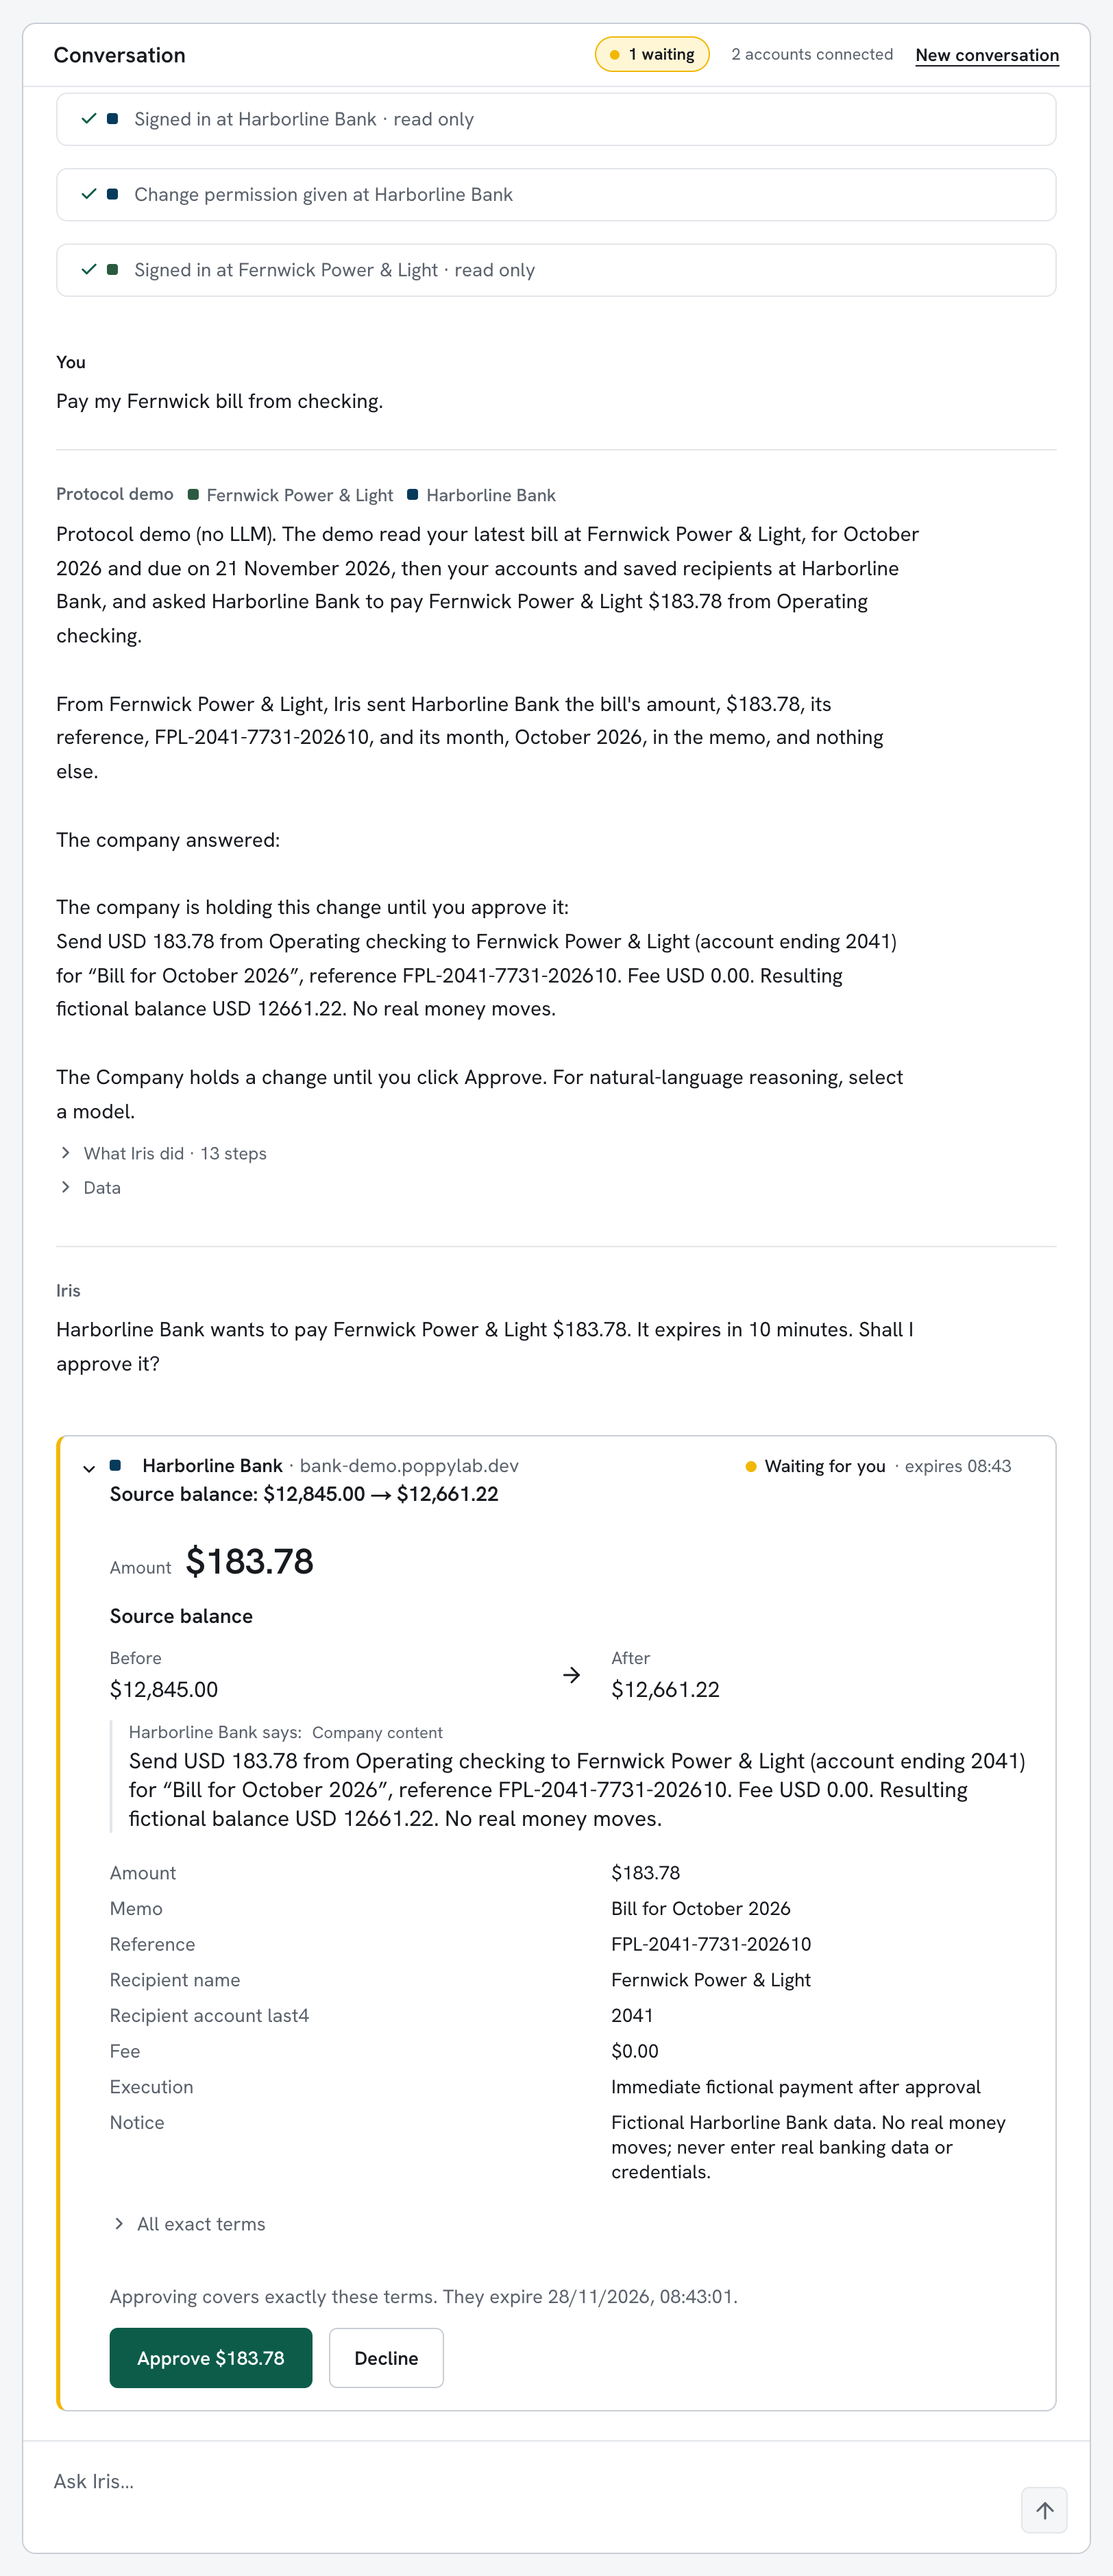
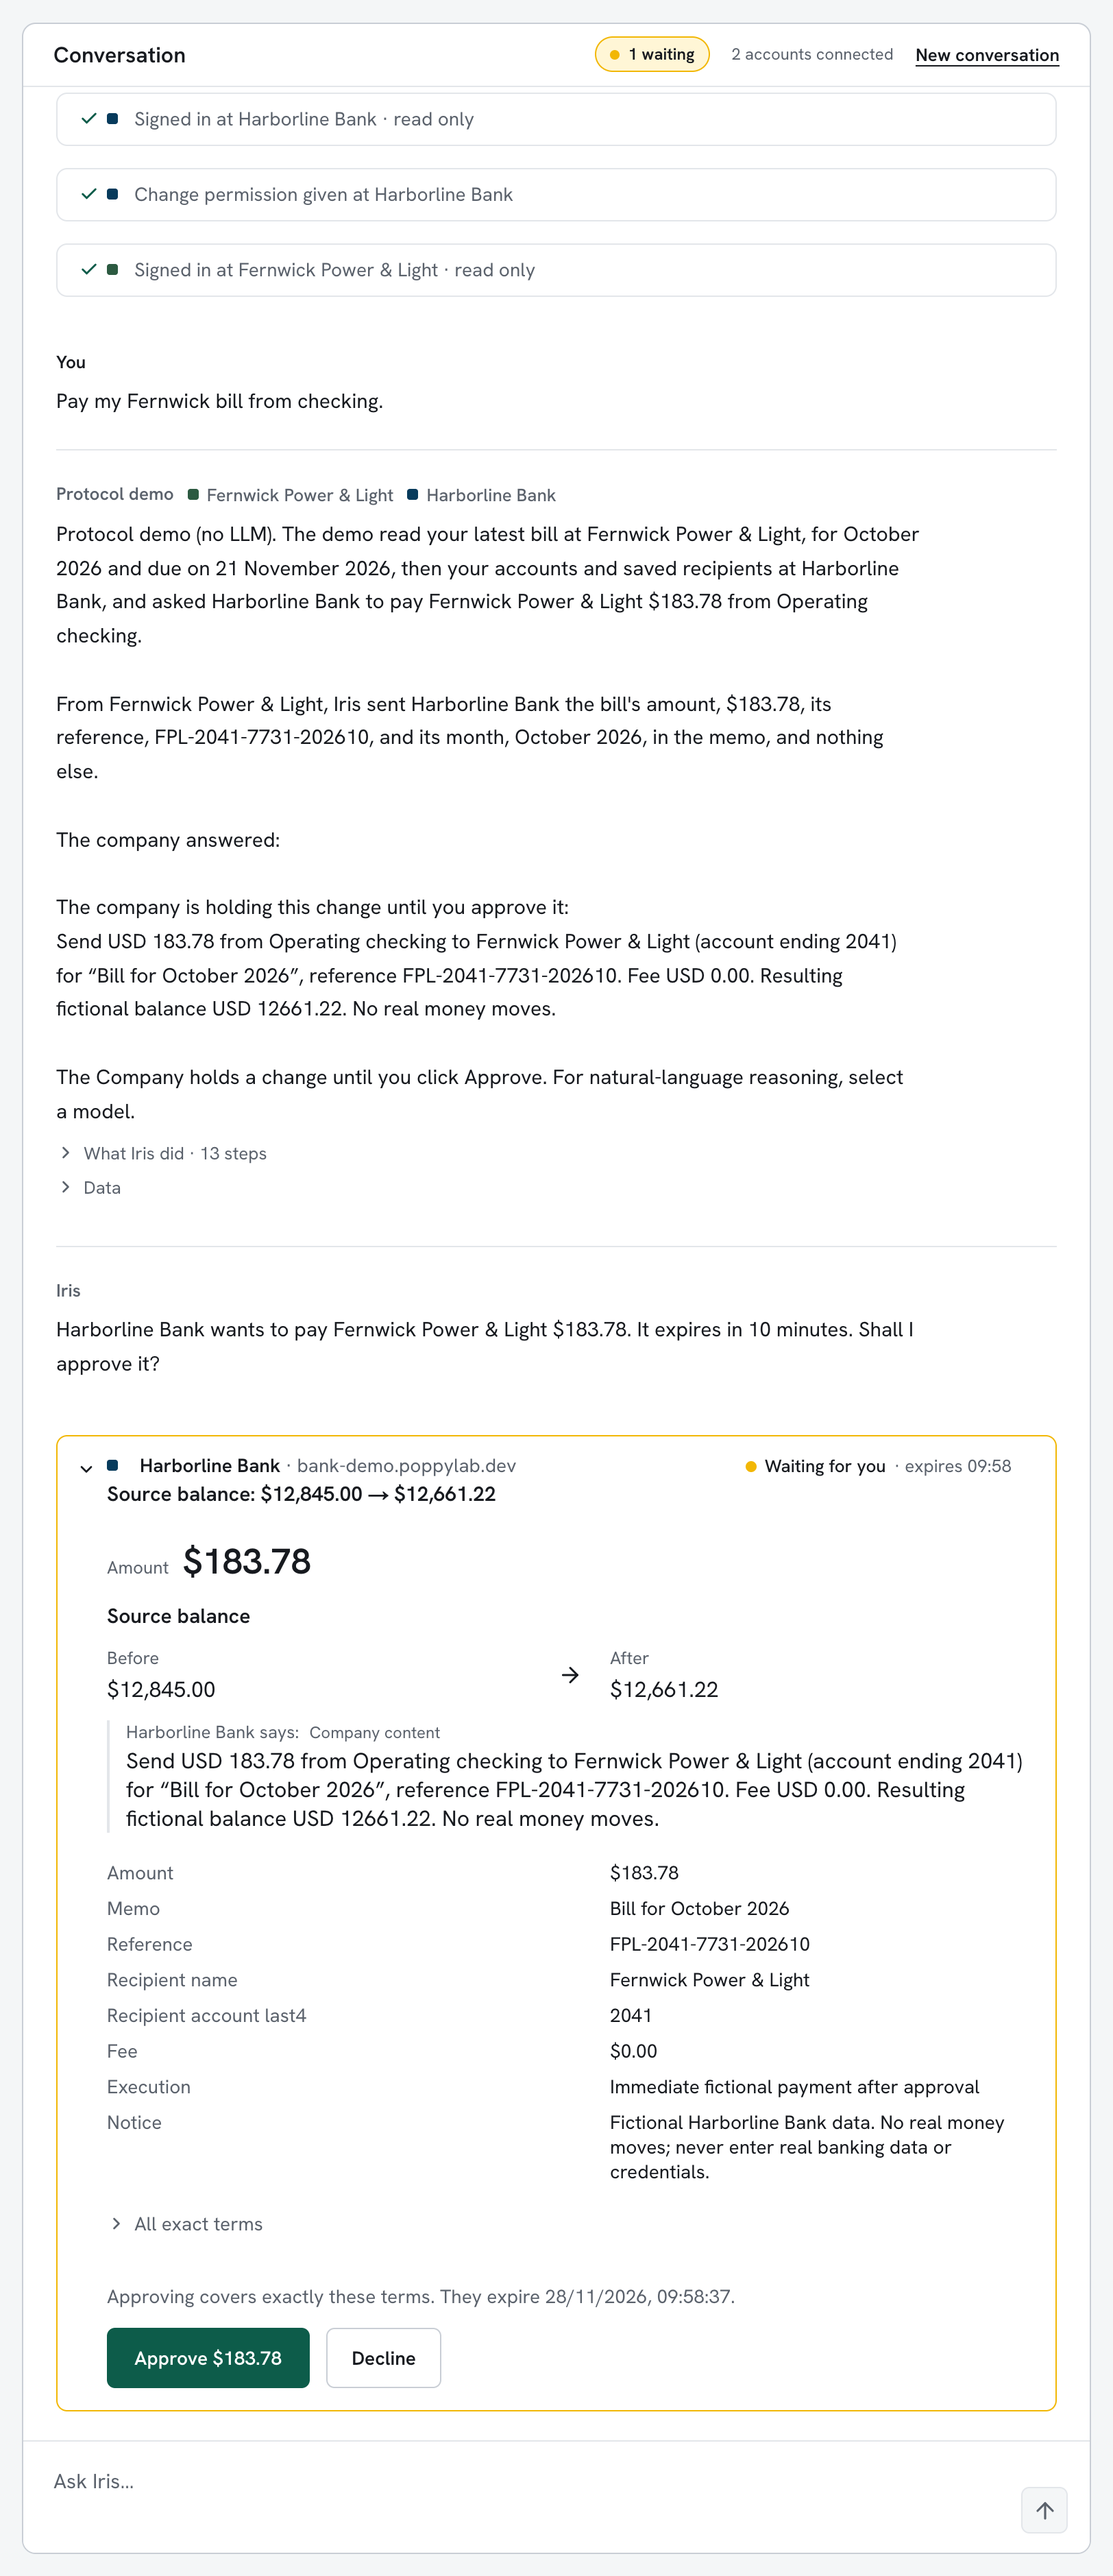
Retake the chat steps of Paying a bill after the fixes of 28 November
Iris's confirmation now ends: and it has been carried out. Steps 2 and 3 are retaken after a reset, so the balance still matches the website images.

diff --git a/docs/learn/how-it-works/paying-a-bill-from-another-company.md b/docs/learn/how-it-works/paying-a-bill-from-another-company.md
@@ -112,13 +112,12 @@ to it without a reference in that shape is refused with `invalid_reference`:
 
 ### 3. Approve the payment
 
-![Harborline's card now reads Approved by you, with the bank's confirmation that it sent 183.78 dollars to Fernwick Power & Light. Below it Elena's answer yes, and Iris: Done. You approved the 183.78 dollar payment at Harborline Bank, and Harborline Bank has carried it out](../../../apps/playground/public/learn-media/how-it-works/paying-a-bill-from-another-company/03-payment-approved.webp "Harborline paid when the approval arrived, and said so.")
+![Harborline's card now reads Approved by you, with the bank's confirmation that it sent 183.78 dollars to Fernwick Power & Light. Below it Elena's answer yes, and Iris: Done. You approved the 183.78 dollar payment at Harborline Bank, and it has been carried out](../../../apps/playground/public/learn-media/how-it-works/paying-a-bill-from-another-company/03-payment-approved.webp "Harborline paid when the approval arrived, and said so.")
 
 Elena answers "yes". She could also press the Approve button on Harborline's
 terms. Iris sends Harborline the same request again with her approval
 attached, Harborline sends the money and confirms it, and Iris says: "Done.
-You approved the $183.78 payment at Harborline Bank, and Harborline Bank has
-carried it out."
+You approved the $183.78 payment at Harborline Bank, and it has been carried out."
 
 ### 4. The payment at Harborline
 
